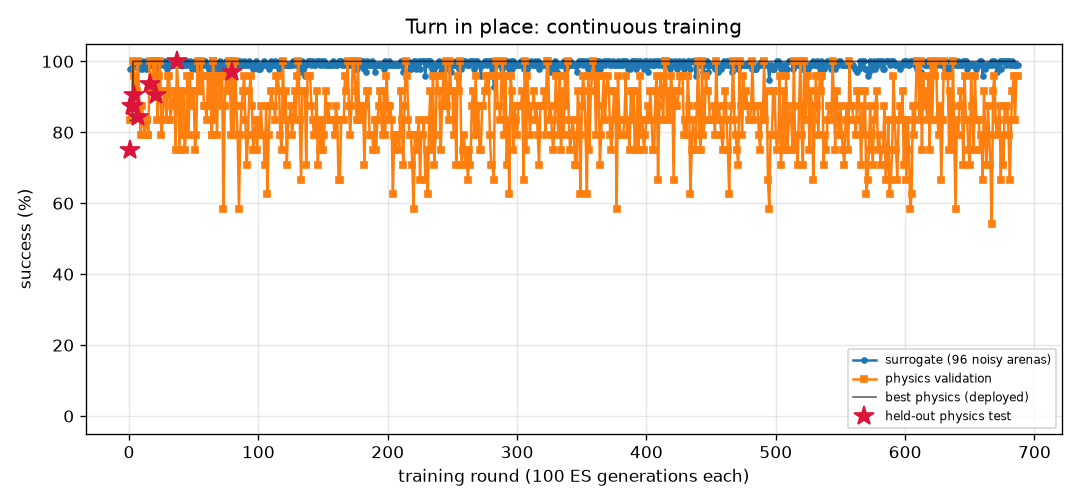
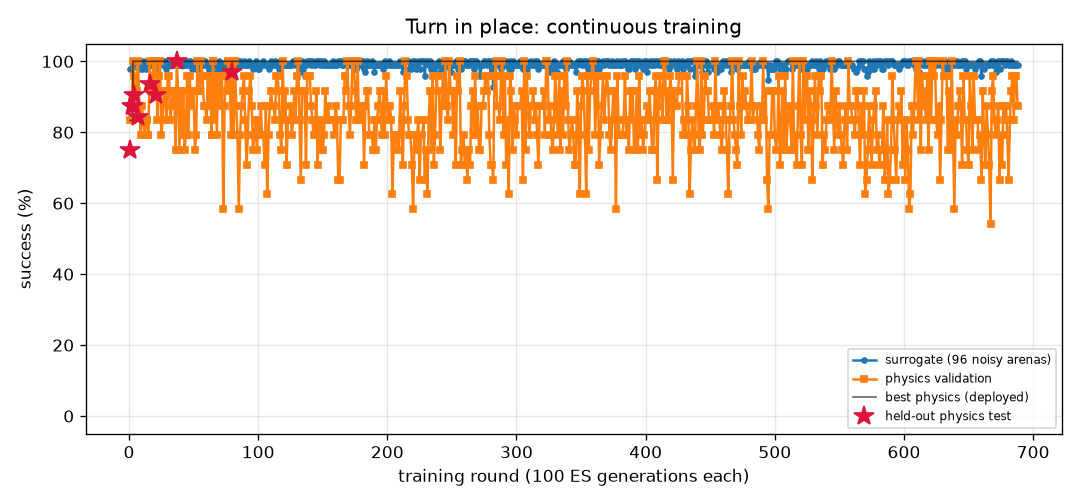
FlyLab: continuous training progress
- walk_forward: optimal, physics val 100% of 24, round 197
- turn: optimal, physics val 100% of 24, round 688
- goto: optimal, physics val 100% of 24, round 173
- odor_seek: optimal, physics val 100% of 24, round 152
- odor_avoid: optimal, physics val 100% of 24, round 641
- light_seek: optimal, physics val 100% of 24, round 360
- light_avoid: optimal, physics val 100% of 24, round 375

diff --git a/projects/09_flylab/training/turn/REPORT.md b/projects/09_flylab/training/turn/REPORT.md
@@ -1,14 +1,14 @@
 # Turn in place (`turn`) — training report
 
-*Auto-generated by `train_brains.py`, last updated 2026-10-26T20:03:33.*
+*Auto-generated by `train_brains.py`, last updated 2026-10-26T20:10:17.*
 
 ![curve](curve.png)
 
 | | |
 |---|---|
-| rounds | 687 |
-| ES generations | 68700 |
-| physics runs | 16734 |
+| rounds | 688 |
+| ES generations | 68800 |
+| physics runs | 16758 |
 | status | **optimal** |
 | best brain | round 80: physics validation **100%** on 24 arenas, surrogate 100% |
 | held-out physics test | **97%** on 32 unseen arenas (95% CI 84%-99%) (errors: [1.6, 3.3, 6.3, 3.7, 1.1, 0.4, 2.4, 2.9, 0.1, 2.6, 0.5, 2.7, 1.5, 3.1, 4.5, 0.2, 0.5, 1.1, 2.0, 4.4, 2.8, 3.2, 0.3, 2.2, 0.5, 3.0, 0.3, 5.4, 0.4, 1.0, 4.7, 10.7]) |
@@ -17,7 +17,6 @@ Physics error per arena: deg from target heading (< 20 = success).
 
 | round | level | gens | sigma | surrogate | physics val | val errors | test | note |
 |---:|---:|---:|---:|---:|---:|---|---:|---|
-| 648 | 3 | 64800 | 0.024 | 98% | 83% | [8.4, 4.3, 1.7, 1.7, 1.6, 3.1, 5.4, 8.4, 5.1, 1.8, 5.0, 1.0, 1.0, 3.1, 4.8, 1.4, 0.9, 2.2, 1.1, 0.3, 5.2, 1.2, 5.3, 4.1] |  | restart from best |
 | 649 | 3 | 64900 | 0.024 | 99% | 75% | [4.5, 8.9, 0.8, 2.0, 3.5, 1.2, 4.7, 2.3, 4.9, 0.8, 2.7, 1.5, 1.4, 4.4, 2.0, 1.5, 1.6, 1.0, 10.4, 1.9, 6.8, 1.3, 4.7, 3.0] |  |  |
 | 650 | 3 | 65000 | 0.025 | 99% | 71% | [9.4, 8.3, 9.5, 1.2, 3.0, 0.8, 3.2, 4.6, 4.1, 0.6, 3.7, 2.1, 2.2, 6.1, 3.9, 3.8, 2.2, 0.4, 3.0, 2.7, 8.9, 0.6, 0.7, 0.6] |  |  |
 | 651 | 3 | 65100 | 0.025 | 99% | 96% | [9.7, 11.1, 2.9, 4.3, 3.2, 3.7, 2.2, 2.5, 2.2, 1.3, 2.0, 2.9, 3.2, 5.4, 0.9, 1.2, 2.8, 10.4, 3.0, 0.3, 5.1, 0.9, 1.5, 6.2] |  |  |
@@ -57,3 +56,4 @@ Physics error per arena: deg from target heading (< 20 = success).
 | 685 | 3 | 68500 | 0.024 | 99% | 83% | [4.5, 1.6, 4.2, 0.3, 0.8, 2.7, 4.1, 6.1, 5.5, 1.5, 5.0, 1.5, 0.6, 2.1, 4.7, 1.6, 1.4, 1.9, 1.6, 3.4, 3.2, 2.1, 5.0, 0.2] |  |  |
 | 686 | 3 | 68600 | 0.025 | 99% | 96% | [6.1, 7.1, 5.4, 0.6, 10.2, 1.5, 2.5, 5.1, 4.1, 1.3, 2.3, 0.8, 2.6, 3.4, 2.7, 0.2, 0.7, 12.6, 1.2, 1.8, 6.2, 0.4, 3.0, 1.9] |  |  |
 | 687 | 3 | 68700 | 0.025 | 99% | 96% | [1.2, 5.6, 3.2, 1.5, 1.0, 2.0, 5.4, 6.9, 4.2, 0.8, 3.8, 0.0, 2.7, 3.1, 2.0, 0.4, 0.5, 1.3, 0.2, 0.0, 5.0, 0.9, 4.4, 1.1] |  |  |
+| 688 | 3 | 68800 | 0.025 | 99% | 88% | [7.3, 9.3, 5.3, 5.3, 0.2, 2.6, 1.6, 0.7, 3.9, 1.1, 2.4, 2.4, 0.4, 4.3, 2.8, 0.0, 2.1, 0.7, 1.2, 1.3, 6.5, 0.0, 2.8, 2.7] |  | restart from best |

diff --git a/projects/09_flylab/training/TRAINING.md b/projects/09_flylab/training/TRAINING.md
@@ -1,13 +1,13 @@
 # FlyLab brains — continuous training log
 
-*Auto-generated by `train_brains.py`, last updated 2026-10-26T20:09:58.*
+*Auto-generated by `train_brains.py`, last updated 2026-10-26T20:10:17.*
 
 Every skill has its own brain and its own training process: surrogate ES rounds, physics validation in MuJoCo, keep-the-best selection, and a held-out physics test that is never used for selection. See each skill's report for its full round-by-round history. Mastery is progressive: passing a level (100% physics validation, >=95% surrogate) doubles the validation and test arena sets; a brain is **optimal** once it holds up at level 3 (>=95% of 24 validation arenas) AND scores >=90% on the 32 held-out test arenas. Test columns show 95% Wilson confidence intervals.
 
 | skill | rounds | ES generations | physics runs | surrogate | physics val | **physics test** | status |
 |---|---:|---:|---:|---:|---:|---:|---|
 | [Walk forward](walk_forward/REPORT.md) | 197 | 19700 | 4742 | 100% | 100% of 24 | 100% of 32 (CI 89-100%) | **optimal** |
-| [Turn in place](turn/REPORT.md) | 687 | 68700 | 16734 | 100% | 100% of 24 | 97% of 32 (CI 84-99%) | **optimal** |
+| [Turn in place](turn/REPORT.md) | 688 | 68800 | 16758 | 100% | 100% of 24 | 97% of 32 (CI 84-99%) | **optimal** |
 | [Go to a location](goto/REPORT.md) | 173 | 17300 | 4070 | 99% | 100% of 24 | 100% of 32 (CI 89-100%) | **optimal** |
 | [Find food by smell](odor_seek/REPORT.md) | 152 | 15200 | 3078 | 100% | 100% of 24 | 100% of 32 (CI 89-100%) | **optimal** |
 | [Escape a bad smell](odor_avoid/REPORT.md) | 641 | 64100 | 12690 | 97% | 100% of 24 | 97% of 32 (CI 84-99%) | **optimal** |
